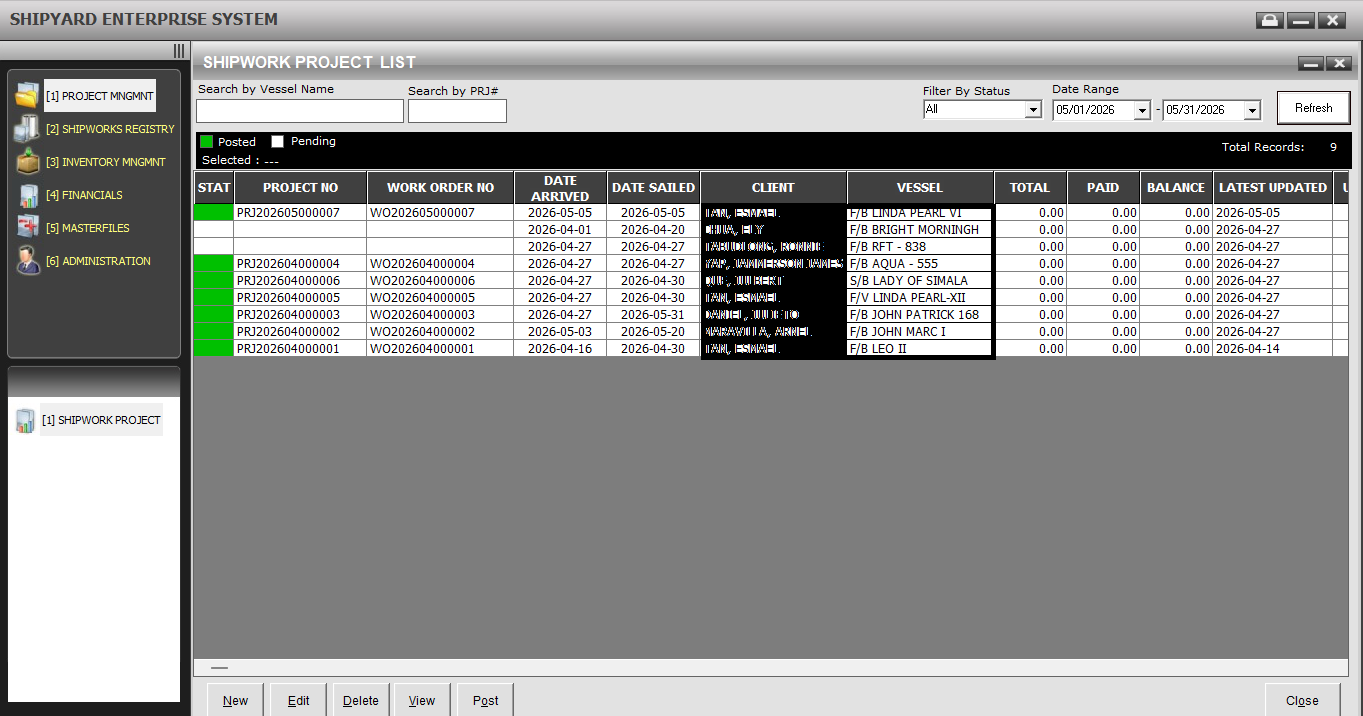
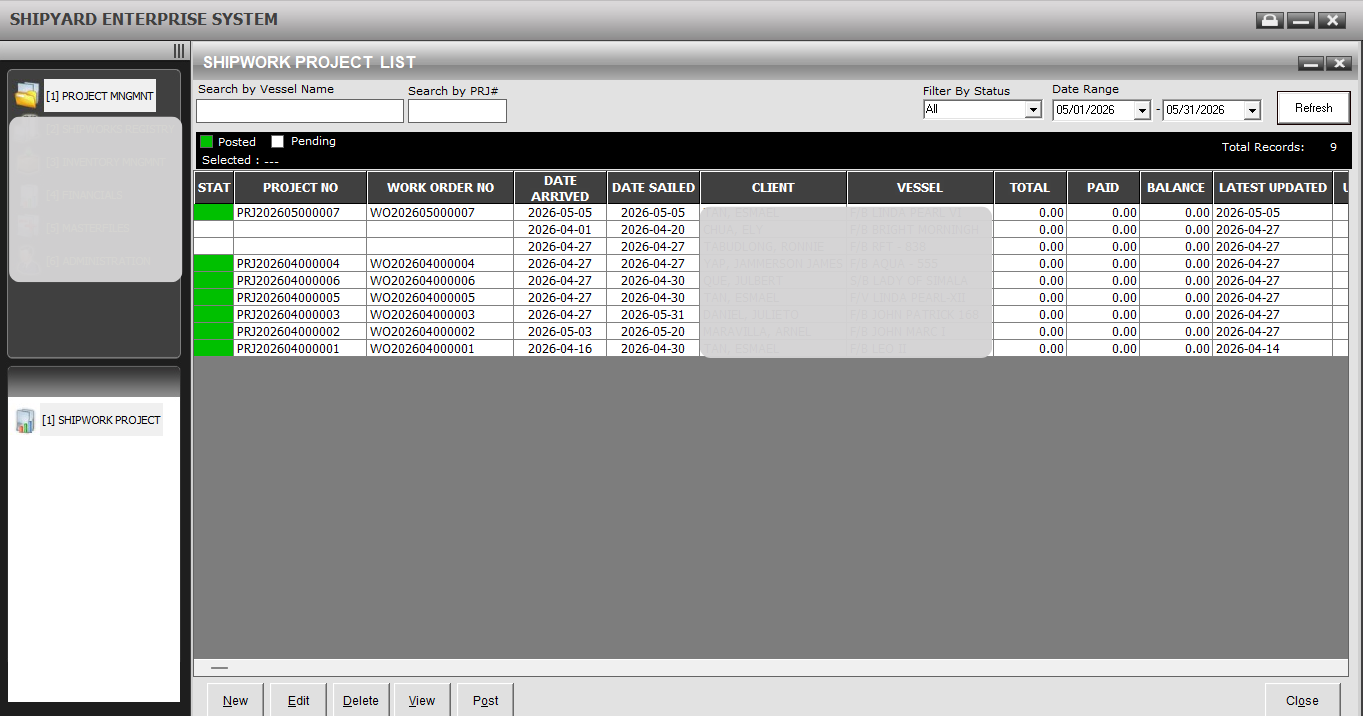
blurred ses image

Changed region(s): [[0.493, 0.2765, 0.7395, 0.5223], [0.0, 0.1536, 0.1541, 0.3994]]

diff --git a/src/components/Projects.jsx b/src/components/Projects.jsx
@@ -153,9 +153,9 @@ const projectData = [
     description: "An enterprise operations management system designed to support daily shipyard workflows across multiple branches. The platform manages vessel projects, job orders, inventory, procurement, financial operations, service tariffs, and wharf occupancy monitoring to streamline large-scale shipyard operations.",
     tech: "VB.NET, .NET Framework, SQL Server",
     status: "Stabilization",
-    image: "/ses-1.png",
+    image: "/ses-1.1.png",
     gallery: [
-      "/ses-1.png",
+      "/ses-1.1.png",
       "/ses-2.1.png",
       "/ses-3.png",
       "/ses-4.png",
@@ -163,7 +163,7 @@ const projectData = [
       "/ses-6.png",
       "/ses-7.1.png",
       "/ses-8.png",
-      "/ses-9.png",
+      "/ses-9.1.png",
       "/ses-10.png"
     ],
     features: [
